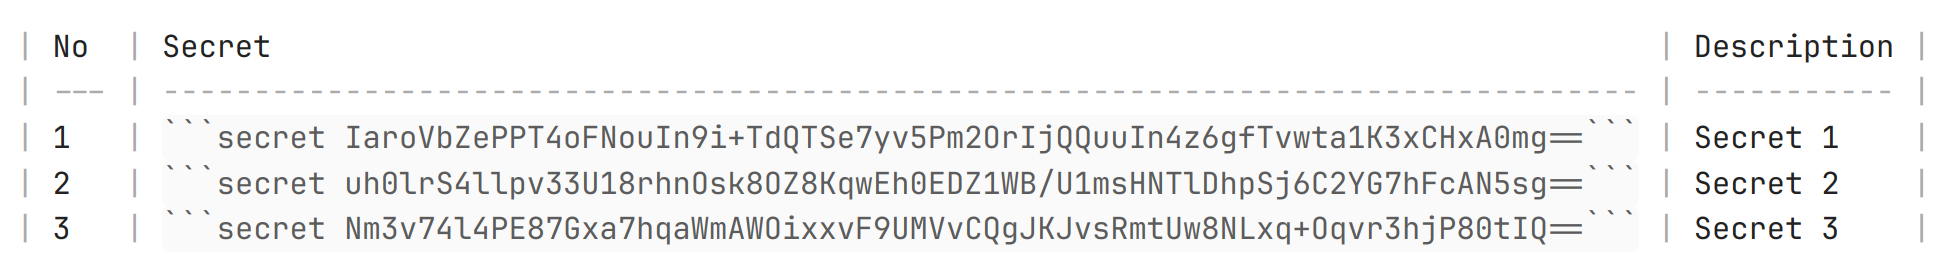
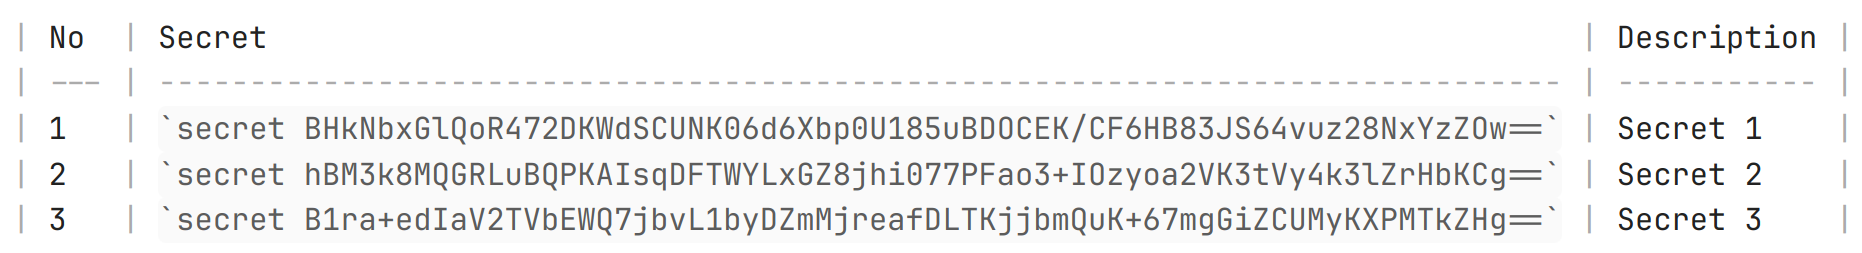
Changes in code block format

diff --git a/src/main.ts b/src/main.ts
@@ -56,7 +56,7 @@ export default class InlineEncrypterPlugin extends Plugin {
 					return;
 				}			
 				const output = await this.cryptoFactory.encryptToBase64(input, passModal.password);
-				editor.replaceSelection('```' + ENCRYPTED_CODE_PREFIX + output + '```');
+				editor.replaceSelection('`' + ENCRYPTED_CODE_PREFIX + output + '`');
 				new Notice('✅ Text encrypted')
 			}
 			passModal.open();
@@ -73,7 +73,7 @@ export default class InlineEncrypterPlugin extends Plugin {
 				if (!passModal.isPassword) {
 					return;
 				}			
-				input = input.replace('```', '').replace(ENCRYPTED_CODE_PREFIX, '').replace('```', '');
+				input = input.replace('`', '').replace(ENCRYPTED_CODE_PREFIX, '').replace('`', '');
 				const output = await this.cryptoFactory.decryptFromBase64(input, passModal.password);
 				if (output === null) {
 					new Notice('❌ Decryption failed!');

diff --git a/README.md b/README.md
@@ -8,7 +8,7 @@ This is a simple plugin for encrypting the text in Obsidian notes just inline. I
 
 > ⚠ WARNING: Use at your own risk. Your passwords are never stored anywher. If you forget your passwords you can't decrypt your notes. Do not give access to your files to a third party to avoid possible decryption of data.
 
-You can encrypt all the text in a note, as well as parts of it, such as the contents of lists, tables, etc. The encrypted value is saved directly in the note as a block of code and appears as a button in reading mode:
+You can encrypt all the text in a note, as well as parts of it, such as the contents of lists, tables, etc. The encrypted value is saved directly in the note as a block of code and appears as a button in reading mode.
 
 Edit mode:
 
@@ -48,4 +48,4 @@ Reading mode:
 
 ## Technical Notes
 
-Encryption algorhytm is ```aes-256-gcm```. Salt and IV are unique and random.
+Encryption algorhytm is `aes-256-gcm`. Salt and IV are unique and random.
